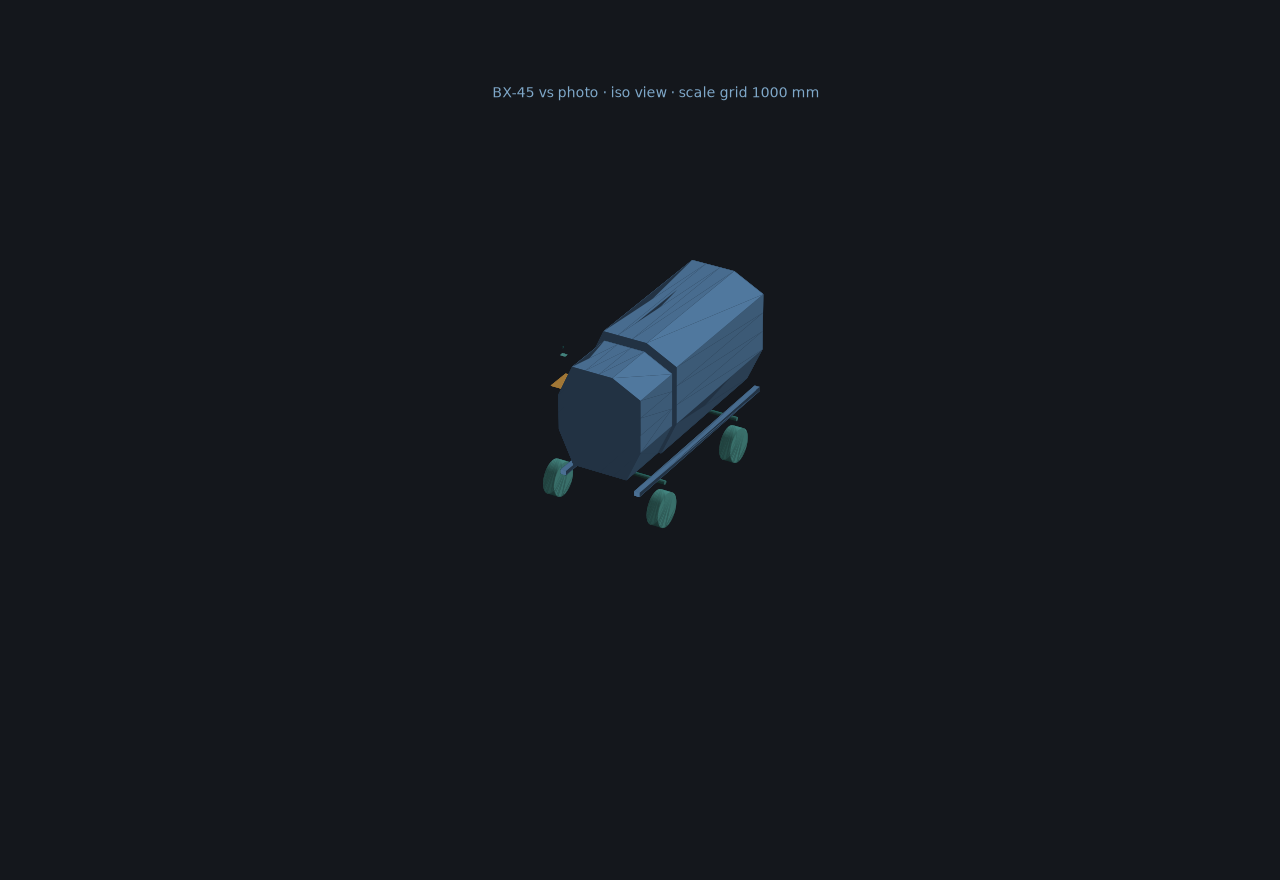
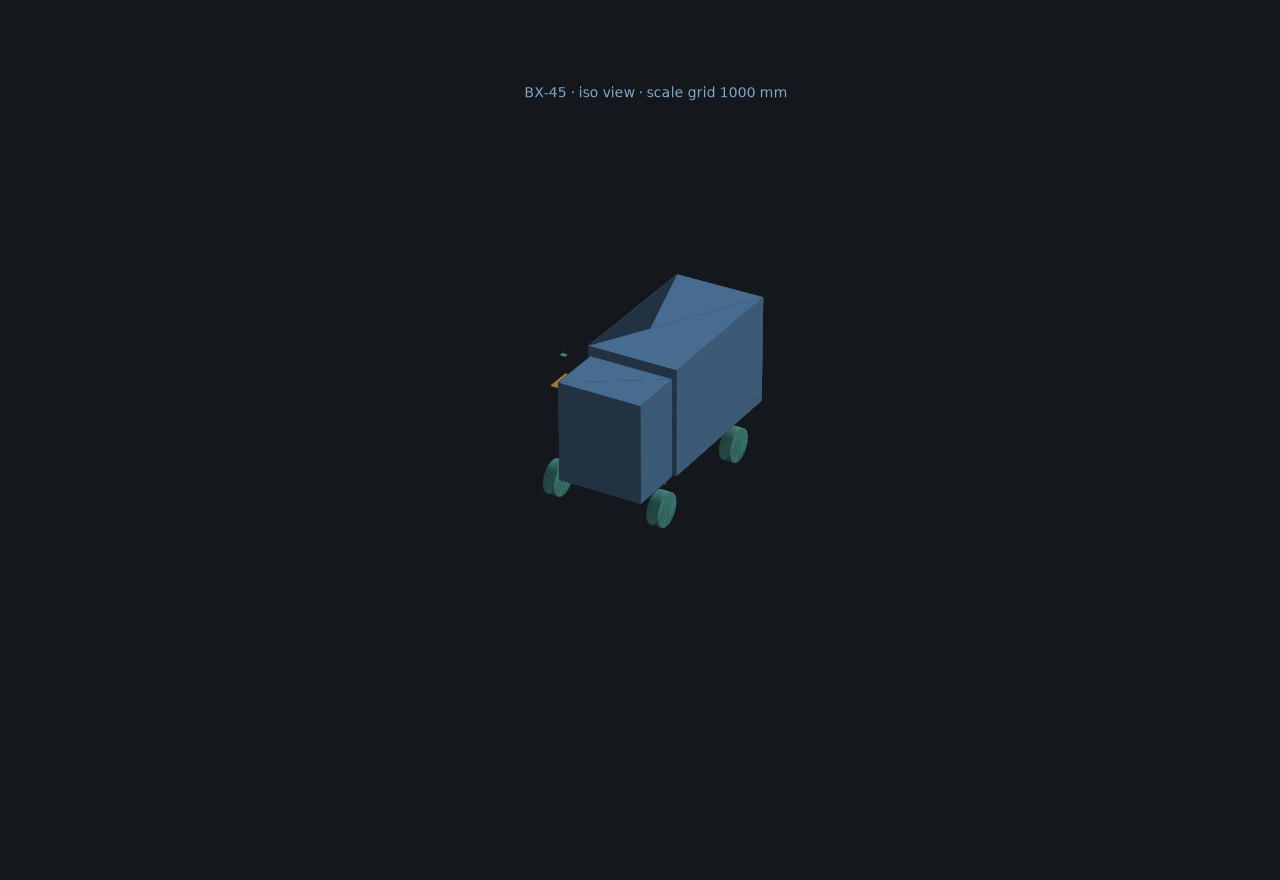
exact polygon inset (line-intersection) — wall 3.5 exact, symmetric
The averaged-normal inset was inconsistent per vertex (3.5 left,
5.6 right on the same section), so shells carried a ~6.2mm effective
wall while the estimate assumed 3.5 — budgets lied by 25%.  Replaced
with the exact construction: offset each edge inward by wall, intersect
consecutive offset lines (rect and octagon have no acute angles).
Wall by area = 3.500 exact and symmetric for both sections; budget
slices now track reality (cab 125 / box 290 renegotiated).

All four cases cold-store green (one deliberate rejection each,
OPEN(0)); 50/50 tests.

Changed region(s): [[0.4375, 0.2761, 0.5938, 0.583], [0.375, 0.092, 0.625, 0.1227]]

diff --git a/fluxkernel/mechanisms/cabin_fuselage.py b/fluxkernel/mechanisms/cabin_fuselage.py
@@ -49,35 +49,37 @@ def _interp(w0, w1, t):
     return w0 + (w1 - w0) * t
 
 
-def _inset_oct(pts, wall):
-    """Octagon inset by wall along local normals (same averaged-normal
-    scheme as the wing skin cutter)."""
-    n = len(pts)
+def _inset_oct(loop, wall: float):
+    """Exact polygon inset: offset each edge inward by wall, intersect
+    consecutive offset lines (closed convex-ish loops; the octagon and
+    rectangle sections have no acute angles, so intersections exist)."""
+    n = len(loop)
     a = 0.0
     for i in range(n):
-        x1, y1 = pts[i]
-        x2, y2 = pts[(i + 1) % n]
+        x1, y1 = loop[i]
+        x2, y2 = loop[(i + 1) % n]
         a += x1 * y2 - x2 * y1
     sgn = 1.0 if a > 0 else -1.0
+    lines = []
+    for i in range(n):
+        (x1, y1), (x2, y2) = loop[i], loop[(i + 1) % n]
+        dx, dy = x2 - x1, y2 - y1
+        ln = math.hypot(dx, dy) or 1.0
+        nx, ny = -dy / ln * sgn, dx / ln * sgn        # inward normal
+        # offset line: points p with (p - (x1,y1)).n = wall
+        lines.append((nx, ny, nx * x1 + ny * y1 + wall))
     out = []
     for i in range(n):
-        px, py = pts[(i - 1) % n]
-        cx, cy = pts[i]
-        nx, ny = pts[(i + 1) % n]
-        e1 = (cx - px, cy - py)
-        e2 = (nx - cx, ny - cy)
-        l1 = math.hypot(*e1) or 1.0
-        l2 = math.hypot(*e2) or 1.0
-        m1 = (-e1[1] / l1 * sgn, e1[0] / l1 * sgn)
-        m2 = (-e2[1] / l2 * sgn, e2[0] / l2 * sgn)
-        mx, my = m1[0] + m2[0], m1[1] + m2[1]
-        ml = math.hypot(mx, my) or 1.0
-        # miter: shift along the corner bisector so the PERPENDICULAR
-        # distance to each edge equals wall (cos half-angle correction),
-        # capped at 2x to protect acute corners from self-intersection
-        cos_half = max(0.5, mx / ml)
-        out.append((cx + mx / ml * wall / cos_half,
-                    cy + my / ml * wall / cos_half))
+        a1, b1, c1 = lines[(i - 1) % n]
+        a2, b2, c2 = lines[i]
+        det = a1 * b2 - a2 * b1
+        if abs(det) < 1e-9:                     # parallel edges: midpoint
+            px, py = loop[i]
+            out.append((px + a1 * wall, py + b1 * wall))
+            continue
+        x = (c1 * b2 - c2 * b1) / det
+        y = (a1 * c2 - a2 * c1) / det
+        out.append((x, y))
     return out
 
 
@@ -167,9 +169,11 @@ def mass_kg(p: dict, part: str) -> float:
     rho = 1.24e-3 / 1000.0
     pr = profile(p, part)
     if part == "shell":
+        # effective wall = cutter inset (WALL + 0.5): the mitered inset
+        # lands EXACTLY on it per edge, so the estimate tracks the cut
         per = _oct_perim(_section(float(p["width"]), float(p["height"]),
                                   str(p.get("section", "octagon"))))
-        return per * L * WALL * 1.24e-3 / 1000.0 * 1.15 * 1.15
+        return per * L * (WALL + 0.5) * 1.24e-3 / 1000.0
     return _oct_area(pr["pts"]) * pr["thick"] * 1.24e-3 / 1000.0
 
 

diff --git a/fluxkernel/semantics/operators.py b/fluxkernel/semantics/operators.py
@@ -211,8 +211,16 @@ class Engine:
             if k in values:
                 continue
             de = spec.get("default-expr") if isinstance(spec, dict) else None
-            if de:
-                values[k] = fkparams.eval_sexp(de, lambda n: values.get(n))
+            if de is not None:
+                if isinstance(de, list):
+                    try:
+                        values[k] = fkparams.eval_sexp(de, lambda n: values.get(n))
+                    except fkparams.ParamError:
+                        # a bare string default is an enum value, not a
+                        # parameter reference
+                        values[k] = de
+                else:
+                    values[k] = de
         for k, spec in (decl.get("params") or {}).items():
             if k not in values or not isinstance(spec, dict):
                 continue
